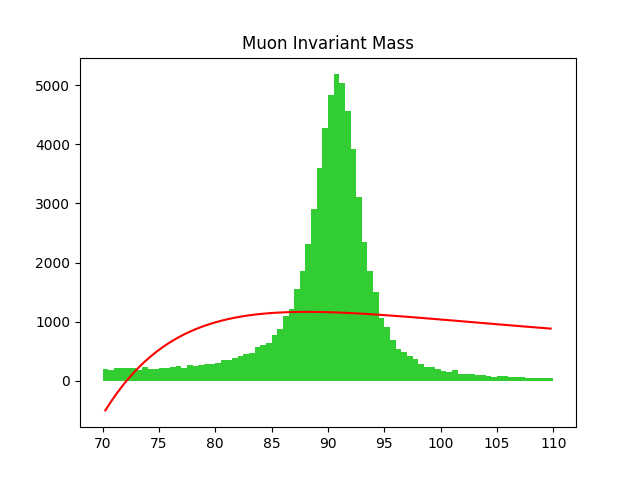
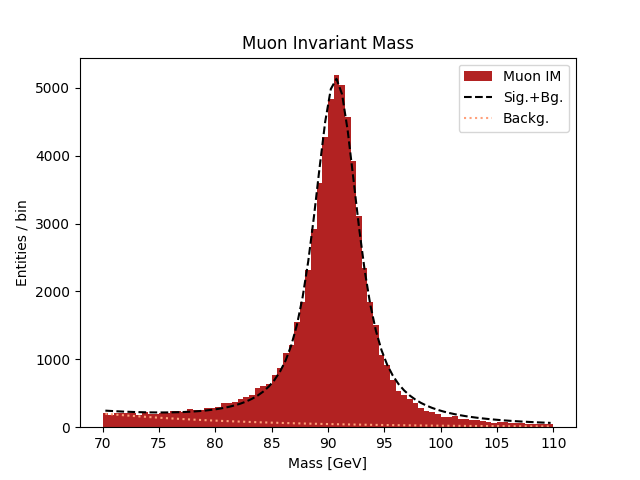
Successfully fitted and graphed data.

diff --git a/plots/plot.py b/plots/plot.py
@@ -2,8 +2,17 @@ import pandas as pd
 import matplotlib.pyplot as plt
 import numpy as np
 from scipy.special import wofz
+from scipy.special import voigt_profile
 from scipy.optimize import curve_fit
 
+## Constraints for curve fitting.
+# Shifting x of both functions to center near histogram peak.
+x_shift_voigt = 90.7
+x_shift_fall = 68
+# Graph colors
+hist_clr = "firebrick"
+func_clr = "black"
+func_fall_clr = "lightsalmon"
 
 ## Defining relevant functions
 def f_voigt(x, alpha, gamma):
@@ -13,47 +22,60 @@ def f_voigt(x, alpha, gamma):
 def f_fall(x, N, tau):
     return N * np.exp(-x / tau) 
 
-def fit_func(x, alpha, gamma, N, tau, A, s):
-    return A * ( ((1-s)*f_fall(x, N, tau)) + (s*f_voigt(x, alpha, gamma)) )
+def func(x, alpha, gamma, N, tau, A, s):
+    return A*( ((1 - s)*f_fall(x - x_shift_fall, N, tau)) 
+              + (s*f_voigt(x - x_shift_voigt, alpha, gamma)) )
+
+def func_fall(x, N, tau, A, s):
+    return A*((1 - s)*f_fall(x - x_shift_fall, N, tau))
+
+def func_voigt(x, alpha, gamma, A, s):
+    return A*(s*f_voigt(x - x_shift_voigt, alpha, gamma))
+
 
 
 ## Initial objects
 imass_df = pd.read_csv(open("data\\invariant_mass.csv"))
 
 
-## Plotting invariant mass as histogram
+## Plotting invariant mass as histogram.
 bins = 80
 imass_hist = plt.hist(imass_df["Invariant Mass"],
                       bins = bins,
                       range = (70,110),
-                      color = 'limegreen')
+                      color = hist_clr,
+                      label = "Muon IM")
 plt.title("Muon Invariant Mass")
+plt.xlabel("Mass [GeV]")
+plt.ylabel("Entities / bin")
 
 
 ## Finding parameters to fit curve
-# Every value in x_vals represents the middle point of every bin.
+# Every x value represents the middle point of each histogram bin.
 x_vals = []
 for i in range(len(imass_hist[1]) - 1):
     avg = (imass_hist[1][i] + imass_hist[1][i + 1])/2
     x_vals.append(avg)
+# Every y value is simple the size of the size/height of the histogram bin. 
 y_vals = imass_hist[0]
-fit_param = curve_fit(fit_func, 
+# Calculates best parameters using curve_fit().
+fit_param = curve_fit(func, 
                       x_vals,
                       y_vals,
-                      maxfev = 2000000,
-                      p0 = [1, 1, 1, 10, 999999, 9999],
-                      bounds = ([-np.inf, -np.inf, -np.inf, -np.inf, -np.inf, 9999],
-                                [np.inf, np.inf, np.inf, np.inf, np.inf, np.inf]),
-                      method = 'trf')[0] # [alpha, gamma, N, tau, A, s]
-
+                      maxfev = 3000)[0] # [alpha, gamma, N, tau, A, s]
+print(100*"*")
+print("Calculated Parameters:")
 print("")
-print("Parameters Caluclated")
 print(fit_param)
-print("")
+print(100*"*")
+
 
 ## Plotting fitted function to histogram
+# Alterting list of x values to be a numpy array for plotting
 x_vals = np.asarray(x_vals)
-plt.plot(x_vals, fit_func(x_vals,*fit_param), 'r')
-
+# Plotting the function, given the x values and parameters. 
+plt.plot(x_vals, func(x_vals,*fit_param), func_clr, linestyle='dashed',label="Sig.+Bg.")
+plt.plot(x_vals,func_fall(x_vals,*fit_param[2:]), func_fall_clr, linestyle='dotted',label="Backg.")
+plt.legend()
 # Saving histogram. 
 plt.savefig("plots\\muon_hist.png")
